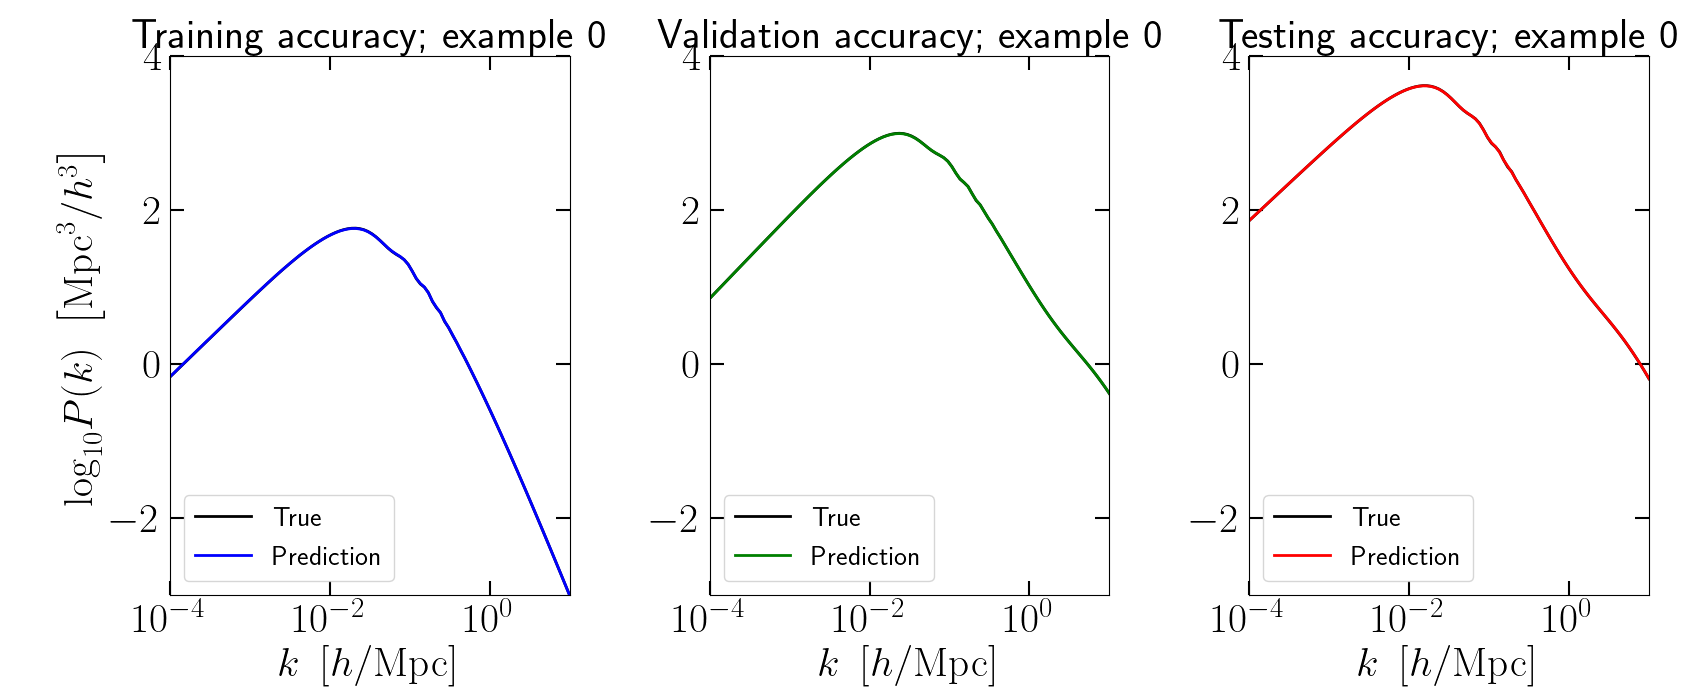
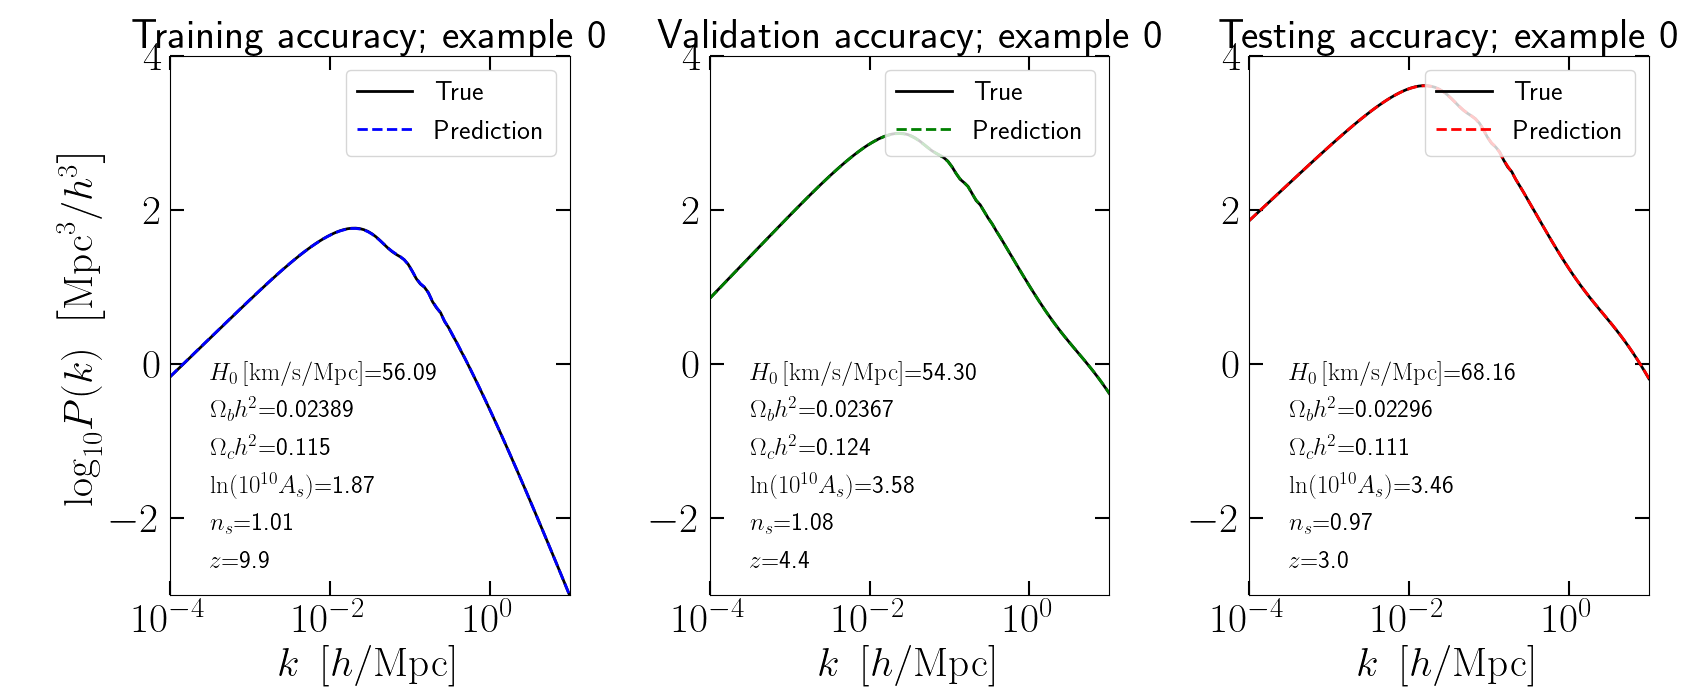
Minor ploting tweaks

diff --git a/plot_performance_model.py b/plot_performance_model.py
@@ -26,17 +26,47 @@ print ('Shapes of testing data')
 print ('Parameters (features):', np.shape(params_test))
 print ('Spectra (labels):'     , np.shape(log10pk_test))
 
-model = tf.keras.models.load_model('model_store/model_1.h5')
+model_nn = tf.keras.models.load_model('model_store/model_1.h5')
 
 print ('')
-print (model.summary())
+print (model_nn.summary())
 print ('')
 
 # Model predictions 
-pred_train = model.predict(params_train)
-pred_valid = model.predict(params_valid)
-pred_test  = model.predict(params_test)
+pred_train = model_nn.predict(params_train)
+pred_valid = model_nn.predict(params_valid)
+pred_test  = model_nn.predict(params_test)
 
+# ==========================================================================
+# Time performance test: NN vs CAMB 
+# ==========================================================================
+
+# Choose set of parameters to make a prediction
+params_values = [70., 0.022, 0.13, 3.0, 0.96, 1.1]
+
+# Time the NN calculation
+t0 = time.time()
+model_nn.predict([params_values])
+t1 = time.time()
+print ('')
+print ('For a single parameter evaluation:')
+print ('The NN model took', t1-t0, 'seconds')
+
+# Time the CAMB calculation
+pars = camb.CAMBparams()
+t0   = time.time()
+pars.set_cosmology(H0=params_values[0], ombh2=params_values[1], omch2=params_values[2], mnu=mnu, omk=omk)
+pars.InitPower.set_params(As=np.exp(params_values[3])*1.0e-10, ns=params_values[4])
+pars.set_matter_power(redshifts=[params_values[5]], kmax=kmax)
+# Get the nonlinear power spectrum
+pars.NonLinear    = model.NonLinear_both
+results           = camb.get_results(pars)
+k, z, pk          = results.get_matter_power_spectrum(minkh=kmin, maxkh = kmax, npoints = nkpoints)
+t1   = time.time()
+print ('CAMB took', t1-t0, 'seconds')
+print ('')
+
+quit()
 # ==========================================================================
 # Plot parameters 
 # ==========================================================================
@@ -58,6 +88,15 @@ max_y = 0.1
 min_y2 = 1.0e-8
 max_y2 = 1.0e-2
 
+def annotate_params(params, ind):
+    fonthere = 18
+    plt.annotate(H0_symbol      + '=' + "%.2f" % params[ind][0], xy = (0.10, 0.40), xycoords = 'axes fraction', c = 'k', fontsize = fonthere)
+    plt.annotate(ombh2_symbol   + '=' + "%.5f" % params[ind][1], xy = (0.10, 0.33), xycoords = 'axes fraction', c = 'k', fontsize = fonthere)
+    plt.annotate(omch2_symbol   + '=' + "%.3f" % params[ind][2], xy = (0.10, 0.26), xycoords = 'axes fraction', c = 'k', fontsize = fonthere)
+    plt.annotate(lnAse10_symbol + '=' + "%.2f" % params[ind][3], xy = (0.10, 0.19), xycoords = 'axes fraction', c = 'k', fontsize = fonthere)
+    plt.annotate(ns_symbol      + '=' + "%.2f" % params[ind][4], xy = (0.10, 0.12), xycoords = 'axes fraction', c = 'k', fontsize = fonthere)
+    plt.annotate(z_symbol       + '=' + "%.1f" % params[ind][5], xy = (0.10, 0.05), xycoords = 'axes fraction', c = 'k', fontsize = fonthere)
+
 # ==========================================================================
 # Inspection of specific case 
 # ==========================================================================
@@ -68,38 +107,41 @@ fig0.subplots_adjust(left=0.10, right=0.97, top=0.92, bottom=0.15, wspace = 0.35
 panel = fig0.add_subplot(1,3,1)
 plt.title('Training accuracy; example ' + str(ind_check), fontsize = title_font)
 plt.plot(kk, log10pk_train[ind_check], c = 'k', linewidth = 2., linestyle = 'solid', label = 'True')
-plt.plot(kk, pred_train[ind_check]   , c = 'b', linewidth = 2., linestyle = 'solid', label = 'Prediction')
+plt.plot(kk, pred_train[ind_check]   , c = 'b', linewidth = 2., linestyle = 'dashed', label = 'Prediction')
 plt.xlim(kmin, kmax)
 plt.ylim(-3., 4.)
 plt.xscale('log')
 plt.xlabel(r'$k\ \left[h/{\rm Mpc}\right]$' , fontsize = labelsize)
 plt.ylabel(r'${\rm log}_{10}P(k)\ \left[{\rm Mpc}^3/h^3\right]$'          , fontsize = labelsize)
 plt.tick_params(length=ticklength_major, width=tickwidth , bottom=True, top=True, left=True, right=True, direction = 'in', which = 'major', pad = tickpad, labelsize = ticksize)
-params = {'legend.fontsize': legend_font}; plt.rcParams.update(params); plt.legend(loc = 'lower left', ncol = 1)
+params = {'legend.fontsize': legend_font}; plt.rcParams.update(params); plt.legend(loc = 'upper right', ncol = 1)
+annotate_params(params_train, ind_check)
 
 # Validation accuracy
 panel = fig0.add_subplot(1,3,2)
 plt.title('Validation accuracy; example ' + str(ind_check), fontsize = title_font)
 plt.plot(kk, log10pk_valid[ind_check], c = 'k', linewidth = 2., linestyle = 'solid', label = 'True')
-plt.plot(kk, pred_valid[ind_check]   , c = 'g', linewidth = 2., linestyle = 'solid', label = 'Prediction')
+plt.plot(kk, pred_valid[ind_check]   , c = 'g', linewidth = 2., linestyle = 'dashed', label = 'Prediction')
 plt.xlim(kmin, kmax)
 plt.ylim(-3., 4.)
 plt.xscale('log')
 plt.xlabel(r'$k\ \left[h/{\rm Mpc}\right]$' , fontsize = labelsize)
 plt.tick_params(length=ticklength_major, width=tickwidth , bottom=True, top=True, left=True, right=True, direction = 'in', which = 'major', pad = tickpad, labelsize = ticksize)
-params = {'legend.fontsize': legend_font}; plt.rcParams.update(params); plt.legend(loc = 'lower left', ncol = 1)
+params = {'legend.fontsize': legend_font}; plt.rcParams.update(params); plt.legend(loc = 'upper right', ncol = 1)
+annotate_params(params_valid, ind_check)
 
 # Testing accuracy
 panel = fig0.add_subplot(1,3,3)
 plt.title('Testing accuracy; example ' + str(ind_check), fontsize = title_font)
 plt.plot(kk, log10pk_test[ind_check], c = 'k', linewidth = 2., linestyle = 'solid', label = 'True')
-plt.plot(kk, pred_test[ind_check]   , c = 'r', linewidth = 2., linestyle = 'solid', label = 'Prediction')
+plt.plot(kk, pred_test[ind_check]   , c = 'r', linewidth = 2., linestyle = 'dashed', label = 'Prediction')
 plt.xlim(kmin, kmax)
 plt.ylim(-3., 4.)
 plt.xscale('log')
 plt.xlabel(r'$k\ \left[h/{\rm Mpc}\right]$' , fontsize = labelsize)
 plt.tick_params(length=ticklength_major, width=tickwidth , bottom=True, top=True, left=True, right=True, direction = 'in', which = 'major', pad = tickpad, labelsize = ticksize)
-params = {'legend.fontsize': legend_font}; plt.rcParams.update(params); plt.legend(loc = 'lower left', ncol = 1)
+params = {'legend.fontsize': legend_font}; plt.rcParams.update(params); plt.legend(loc = 'upper right', ncol = 1)
+annotate_params(params_test, ind_check)
 
 # ==========================================================================
 # Relative difference of the spectra 

diff --git a/commons.py b/commons.py
@@ -33,22 +33,28 @@ n_test  = int(1e2)
 # Parameter order [H0, Omega_b h^2, Omega_c h^2, ln(1e10 As), ns,  z]
 #                 [ 0,      1     ,      2     ,       3    ,  4,  5] 
 # H0
-H0_min      = 50.
-H0_max      = 100.
+H0_symbol      = r'$H_0 \left[{\rm km/s/Mpc}\right]$'
+H0_min         = 50.
+H0_max         = 100.
 # Omega_b h^2
-ombh2_min   = 0.020
-ombh2_max   = 0.024
+ombh2_symbol   = r'$\Omega_b h^2$'
+ombh2_min      = 0.020
+ombh2_max      = 0.024
 # Omega_c h^2
-omch2_min   = 0.100
-omch2_max   = 0.150
+omch2_symbol   = r'$\Omega_c h^2$'
+omch2_min      = 0.100
+omch2_max      = 0.150
 # ln(1e10 As)
-lnAse10_min = 1.5
-lnAse10_max = 4.0
+lnAse10_symbol = r'${\rm ln}(10^{10}A_s)$'
+lnAse10_min    = 1.5
+lnAse10_max    = 4.0
 # ns
-ns_min      = 0.90
-ns_max      = 1.10
+ns_symbol      = r'$n_s$'
+ns_min         = 0.90
+ns_max         = 1.10
 # z
-z_min       = 0.0
-z_max       = 10. 
+z_symbol       = r'$z$'
+z_min          = 0.0
+z_max          = 10. 
 
 
